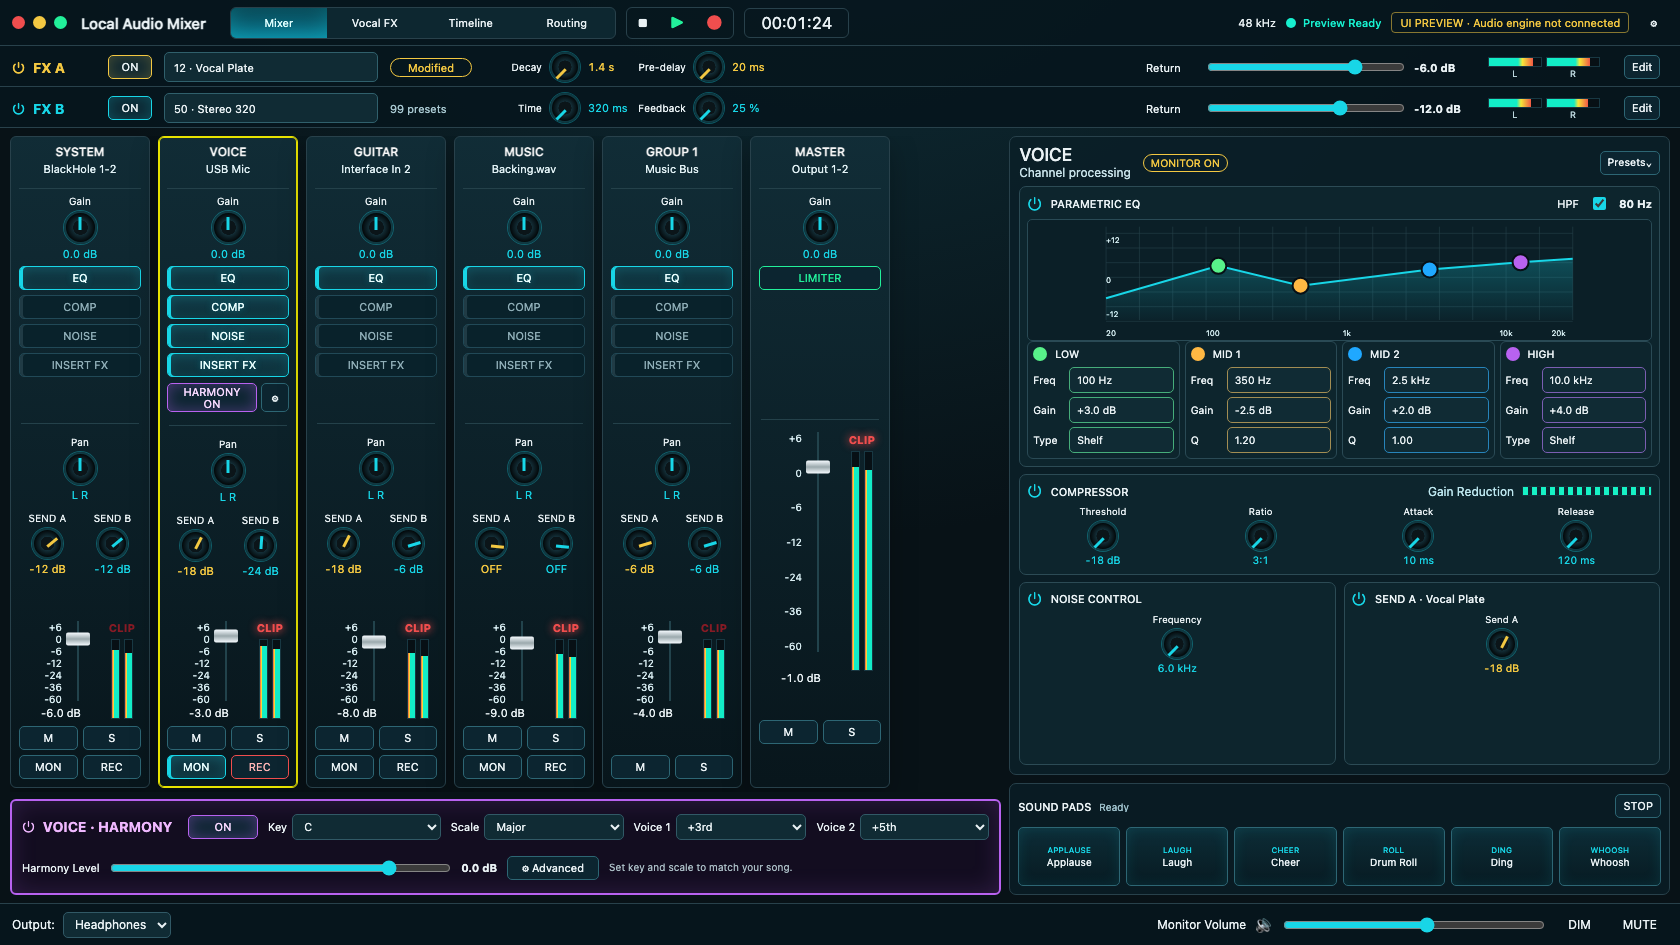
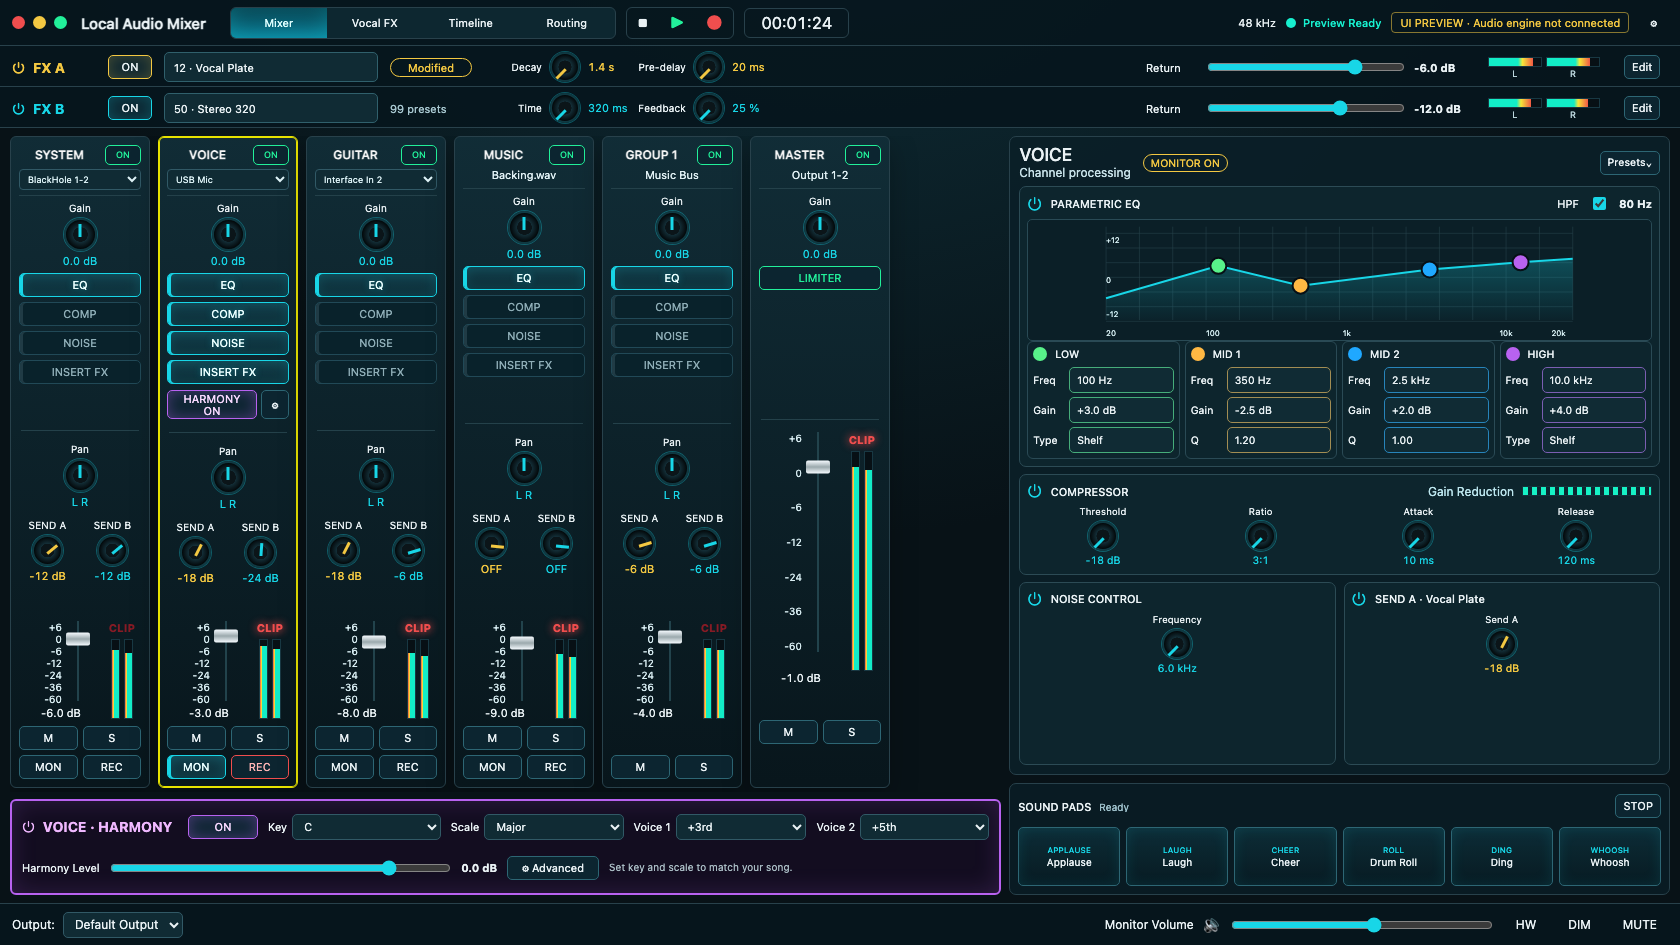
Expose guarded system route controls

diff --git a/apps/desktop/src/features/hardware/components/HardwareMonitorPanel.tsx b/apps/desktop/src/features/hardware/components/HardwareMonitorPanel.tsx
@@ -24,6 +24,10 @@ interface EngineResult {
   blackHoleAvailable?: boolean;
   blackHoleUid?: string;
   physicalOutputUid?: string;
+  state?: string;
+  ownsSystemRoute?: boolean;
+  recoveryMarkerPresent?: boolean;
+  recoveryOriginalOutputUid?: string;
   selectedInputStart?: number;
   selectedInputEnd?: number;
   selectedOutputStart?: number;
@@ -43,11 +47,18 @@ export function HardwareMonitorPanel({ open, onClose }: HardwareMonitorPanelProp
   const [outputUid, setOutputUid] = useState("");
   const [status, setStatus] = useState("Native engine required");
   const [routeStatus, setRouteStatus] = useState("System route not checked");
+  const [blackHoleUid, setBlackHoleUid] = useState("");
+  const [routeOwned, setRouteOwned] = useState(false);
+  const [recoveryMarker, setRecoveryMarker] = useState("");
   const [peak, setPeak] = useState(0);
   const [busy, setBusy] = useState(false);
 
   const inputs = useMemo(() => devices.filter((device) => (device.inputChannels ?? 0) > 0), [devices]);
   const outputs = useMemo(() => devices.filter((device) => (device.outputChannels ?? 0) > 0), [devices]);
+  const blackHoleOptions = useMemo(
+    () => devices.filter((device) => /blackhole/i.test(`${device.name} ${device.uid}`) && (device.inputChannels ?? 0) >= 2),
+    [devices]
+  );
 
   async function send(type: string, payload: Record<string, unknown> = {}) {
     if (!window.localMixer?.engineCommand) {
@@ -68,9 +79,12 @@ export function HardwareMonitorPanel({ open, onClose }: HardwareMonitorPanelProp
     setDevices(result.devices);
     const defaultInput = result.devices.find((device) => device.defaultInput && (device.inputChannels ?? 0) > 0) ?? result.devices.find((device) => (device.inputChannels ?? 0) > 0);
     const defaultOutput = result.devices.find((device) => device.defaultOutput && (device.outputChannels ?? 0) > 0) ?? result.devices.find((device) => (device.outputChannels ?? 0) > 0);
+    const detectedBlackHole = result.devices.find((device) => /blackhole/i.test(`${device.name} ${device.uid}`) && (device.inputChannels ?? 0) >= 2);
     setInputUid((current) => current || defaultInput?.uid || "");
     setOutputUid((current) => current || defaultOutput?.uid || "");
+    setBlackHoleUid((current) => current || detectedBlackHole?.uid || "");
     setStatus(`${result.devices.length} devices`);
+    void refreshRouteStatus();
   }
 
   async function meterInput() {
@@ -102,6 +116,7 @@ export function HardwareMonitorPanel({ open, onClose }: HardwareMonitorPanelProp
   async function checkSystemRoute() {
     setBusy(true);
     const result = await send("routing-system-diagnostics", {
+      blackHoleUid,
       physicalOutputUid: outputUid,
       sampleRate: 48000,
       blackHoleInputStartChannel: 0,
@@ -120,8 +135,49 @@ export function HardwareMonitorPanel({ open, onClose }: HardwareMonitorPanelProp
     }
   }
 
+  async function refreshRouteStatus() {
+    const result = await send("routing-system-status");
+    if (!result) return;
+    setRouteOwned(Boolean(result.ownsSystemRoute));
+    setRecoveryMarker(result.recoveryMarkerPresent ? String(result.recoveryOriginalOutputUid || "saved") : "");
+  }
+
+  async function enableSystemRoute() {
+    const confirmed = window.confirm("Switch macOS output to BlackHole for system audio capture?");
+    if (!confirmed) return;
+    setBusy(true);
+    const result = await send("routing-system-enable", {
+      blackHoleUid,
+      physicalOutputUid: outputUid,
+      sampleRate: 48000,
+      blackHoleInputStartChannel: 0,
+      physicalOutputStartChannel: 0,
+      allowOsRouteChange: true
+    });
+    setBusy(false);
+    if (!result) return;
+    setRouteOwned(Boolean(result.ownsSystemRoute));
+    setStatus(result.ok ? "System route enabled" : result.error ?? "System route failed");
+    setRouteStatus(result.ok ? `Active · ${result.blackHoleUid || blackHoleUid || "BlackHole"}` : result.error ?? "Route rejected");
+    await refreshRouteStatus();
+  }
+
+  async function disableSystemRoute() {
+    setBusy(true);
+    const result = await send("routing-system-disable");
+    setBusy(false);
+    if (!result) return;
+    setRouteOwned(Boolean(result.ownsSystemRoute));
+    setStatus(result.ok ? "System route disabled" : result.error ?? "Disable route failed");
+    setRouteStatus(result.ok ? "Idle · output restored" : result.error ?? "Route restore failed");
+    await refreshRouteStatus();
+  }
+
   useEffect(() => {
-    if (open) void refreshDevices();
+    if (open) {
+      void refreshDevices();
+      void refreshRouteStatus();
+    }
   }, [open]);
 
   if (!open) return null;
@@ -152,17 +208,30 @@ export function HardwareMonitorPanel({ open, onClose }: HardwareMonitorPanelProp
               {outputs.map((device) => <option key={device.uid} value={device.uid}>{device.name || device.uid}</option>)}
             </select>
           </label>
+          <label>
+            <span>Loopback</span>
+            <select value={blackHoleUid} onChange={(event) => setBlackHoleUid(event.target.value)}>
+              <option value="">Auto BlackHole</option>
+              {blackHoleOptions.map((device) => <option key={device.uid} value={device.uid}>{device.name || device.uid}</option>)}
+            </select>
+          </label>
         </div>
         <div className="hardware-monitor-actions">
           <Button tone="cyan" onClick={() => void meterInput()} disabled={busy}>Meter</Button>
           <Button tone="amber" onClick={() => void testTone()} disabled={busy}>Tone</Button>
           <Button tone="green" onClick={() => void monitor()} disabled={busy}>Monitor 3s</Button>
           <Button onClick={() => void checkSystemRoute()} disabled={busy}>Route Check</Button>
+          <Button tone="amber" onClick={() => void enableSystemRoute()} disabled={busy}>Enable Route</Button>
+          <Button tone="danger" onClick={() => void disableSystemRoute()} disabled={busy || (!routeOwned && !recoveryMarker)}>Disable</Button>
           <div className="hardware-peak"><span style={{ width: `${Math.min(100, peak * 100)}%` }} /></div>
         </div>
         <div className="hardware-route-status">
           <span>System</span>
           <strong>{routeStatus}</strong>
+        </div>
+        <div className="hardware-route-status">
+          <span>Recovery</span>
+          <strong>{recoveryMarker ? `Marker · ${recoveryMarker}` : "No marker"}</strong>
         </div>
       </div>
     </div>

diff --git a/apps/desktop/src/styles/app.css b/apps/desktop/src/styles/app.css
@@ -202,16 +202,16 @@
 .sound-pad strong { font-size: 10px; line-height: 1.05; font-weight: 430; overflow-wrap: anywhere; }
 
 .modal-backdrop { position: fixed; inset: 0; z-index: 30; display: grid; place-items: center; background: rgba(0, 0, 0, 0.38); }
-.hardware-monitor-modal { width: min(660px, calc(100vw - 48px)); display: grid; grid-template-rows: 28px 40px 36px 30px; gap: 8px; padding: 10px; border: 1px solid var(--border); border-radius: 7px; background: rgba(10, 28, 36, 0.98); box-shadow: 0 18px 60px rgba(0, 0, 0, 0.5); overflow: hidden; }
+.hardware-monitor-modal { width: min(840px, calc(100vw - 48px)); display: grid; grid-template-rows: 28px 40px 36px 30px 30px; gap: 8px; padding: 10px; border: 1px solid var(--border); border-radius: 7px; background: rgba(10, 28, 36, 0.98); box-shadow: 0 18px 60px rgba(0, 0, 0, 0.5); overflow: hidden; }
 .hardware-monitor-modal header { display: flex; align-items: center; gap: 8px; min-width: 0; }
 .hardware-monitor-modal header div { display: flex; align-items: baseline; gap: 8px; min-width: 0; margin-right: auto; }
 .hardware-monitor-modal header strong { font-size: 11px; font-weight: 480; white-space: nowrap; }
 .hardware-monitor-modal header span { color: #9fc2cc; font-size: 10px; line-height: 1; white-space: nowrap; overflow: hidden; text-overflow: ellipsis; }
 .hardware-monitor-modal header .ui-button { min-height: 22px; }
-.hardware-monitor-fields { display: grid; grid-template-columns: 1fr 1fr; gap: 6px; min-width: 0; }
-.hardware-monitor-fields label { display: grid; grid-template-columns: 36px minmax(0, 1fr); align-items: center; gap: 5px; min-width: 0; font-size: 10px; }
+.hardware-monitor-fields { display: grid; grid-template-columns: repeat(3, minmax(0, 1fr)); gap: 6px; min-width: 0; }
+.hardware-monitor-fields label { display: grid; grid-template-columns: 48px minmax(0, 1fr); align-items: center; gap: 5px; min-width: 0; font-size: 10px; }
 .hardware-monitor-fields select { min-width: 0; width: 100%; min-height: 26px; color: var(--text); background: #102b34; border: 1px solid #315966; border-radius: 5px; padding: 0 6px; font-size: 10px; }
-.hardware-monitor-actions { display: grid; grid-template-columns: 58px 52px 86px 92px minmax(80px, 1fr); gap: 6px; align-items: center; min-width: 0; }
+.hardware-monitor-actions { display: grid; grid-template-columns: 58px 52px 86px 92px 100px 68px minmax(80px, 1fr); gap: 6px; align-items: center; min-width: 0; }
 .hardware-monitor-actions .ui-button { min-height: 25px; padding: 1px 6px; font-size: 10px; }
 .hardware-peak { height: 9px; border: 1px solid #244a55; background: #071015; overflow: hidden; }
 .hardware-peak span { display: block; height: 100%; background: linear-gradient(90deg, #12edc7 0 66%, #f5e739 76%, #f15845 100%); }

diff --git a/tests/ui/visual.visual.ts b/tests/ui/visual.visual.ts
@@ -57,3 +57,15 @@ test("preview controls mutate visible mixer state", async ({ page }) => {
   await page.locator(".compact-fx-row").first().getByRole("button", { name: "Edit" }).click();
   await expect(page.getByRole("dialog", { name: "FX A editor" })).toBeVisible();
 });
+
+test("hardware modal exposes guarded system routing controls", async ({ page }) => {
+  await page.setViewportSize({ width: 1680, height: 945 });
+  await page.goto("/");
+
+  await page.getByRole("button", { name: "HW" }).click();
+  await expect(page.getByRole("dialog", { name: "Hardware monitor" })).toBeVisible();
+  await expect(page.getByText("Loopback")).toBeVisible();
+  await expect(page.getByRole("button", { name: "Route Check" })).toBeVisible();
+  await expect(page.getByRole("button", { name: "Enable Route" })).toBeVisible();
+  await expect(page.getByText("Recovery")).toBeVisible();
+});

diff --git a/docs/progress.md b/docs/progress.md
@@ -700,6 +700,31 @@ Known limitations:
 - Manual crash/restart recovery flow is `NOT_RUN`.
 - Real `allowOsRouteChange: true` route apply/restore with BlackHole and physical hardware remains `NOT_RUN`.
 
+### Phase04 Checkpoint — Desktop System Route Controls
+
+Changed files:
+- `apps/desktop/src/features/hardware/components/HardwareMonitorPanel.tsx`: added Loopback selection, guarded Enable Route, Disable, owned-route status, and recovery marker status in the desktop hardware modal.
+- `apps/desktop/src/styles/app.css`: widened and compacted the hardware modal for three device selectors and route actions.
+- `tests/ui/visual.visual.ts`: added a Playwright assertion that the hardware modal exposes system routing controls.
+- `docs/progress.md`: recorded verification evidence for the checkpoint.
+
+Implemented behavior:
+- Opening the hardware modal still only refreshes devices and status; it does not change macOS routing.
+- `Enable Route` asks for explicit confirmation before sending `routing-system-enable` with `allowOsRouteChange: true`.
+- `Disable` calls `routing-system-disable` and is available when a route is owned or a recovery marker exists.
+- The modal displays recovery marker presence reported by native `routing-system-status`.
+
+Validation:
+- command: `npm run test:visual`
+- exit/result: `0`; 4 Playwright tests passed, including the hardware route controls assertion.
+- command: `npm run verify`
+- exit/result: `0`; plan/file-size/architecture/typecheck/UI tests/native tests/UI build/Electron main build passed.
+
+Known limitations:
+- Real hardware route enable/disable was not clicked during automated verification; macOS default output was not changed by tests.
+- Manual crash/restart recovery flow remains `NOT_RUN`.
+- The desktop modal is a developer/control surface, not final first-run setup UX.
+
 ## Native Sound Pad Spike — Early User-Requested
 Status: IMPLEMENTED_UNVERIFIED_PLAYBACK
 Prerequisites: user explicitly requested this before UI-04
